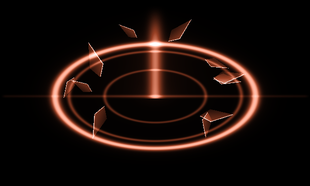
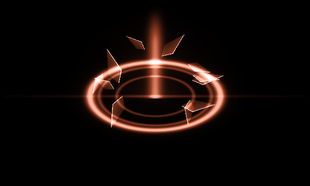
Keep SYNK mode's hit ring compact
The ring now grows to a little over 1.5x the note's width instead of
nearly 3x; the second ring, the shards and the road streak shrink to match.

Changed region(s): [[0.1452, 0.1075, 0.871, 0.8333]]

diff --git a/tools/make_synk_mode_art.py b/tools/make_synk_mode_art.py
@@ -237,7 +237,7 @@ def hit():
         snap = np.exp(-(t / .16) ** 2)                   # the first instant
         light = np.zeros_like(r)
         # The ring: a bold outer rim and a fine inner one, like the note, thinning as it runs.
-        ring_r = .30 + .64 * ease
+        ring_r = .28 + .27 * ease                        # ends a little over 1.5x the note's width
         width = .030 * (1 - .65 * t) + .006
         light += np.exp(-((r - ring_r) / width) ** 2) * (.55 + .75 * fade) * min(1.0, 1.5 - t)
         light += np.exp(-((r - ring_r * .86) / (width * .45)) ** 2) * fade * .7
@@ -245,7 +245,7 @@ def hit():
         # A second, fainter ring leaves a beat later.
         if t > .2:
             late = (t - .2) / .8
-            light += np.exp(-((r - (.22 + .5 * (1 - (1 - late) ** 2))) / .012) ** 2) * (1 - late) ** 1.5 * .45
+            light += np.exp(-((r - (.20 + .24 * (1 - (1 - late) ** 2))) / .012) ** 2) * (1 - late) ** 1.5 * .45
         # The glass inside the ring flashes once and clears.
         light += smooth(ring_r, ring_r * .5, r) * snap * .5
         # A small hot core, only at the first instant.
@@ -258,10 +258,10 @@ def hit():
         light += column * 1.25
         light += np.exp(-np.abs(dx) / (pillar_w * 3.5)) * (Y <= cy + 2) * smooth(reach, reach * .4, rise) * (1 - t) ** 2 * .22
         # A fine streak along the road through the centre.
-        light += np.exp(-(dy / (1.2 + 2.0 * snap)) ** 2) * np.exp(-np.abs(dx) / (40 + 90 * ease)) * (1 - t) ** 2.2 * .9
+        light += np.exp(-(dy / (1.2 + 2.0 * snap)) ** 2) * np.exp(-np.abs(dx) / (30 + 45 * ease)) * (1 - t) ** 2.2 * .9
         # Shards of glass: kites lit along one edge, flying out, rising and tumbling.
         for angle, speed, size, spin, lift in shards:
-            d = (.22 + speed * ease) * half * .8
+            d = (.20 + speed * .55 * ease) * half * .8
             sx = cx + np.cos(angle) * d
             sy = cy + np.sin(angle) * d * squash - lift * ease * 46
             turn = angle + spin * t
